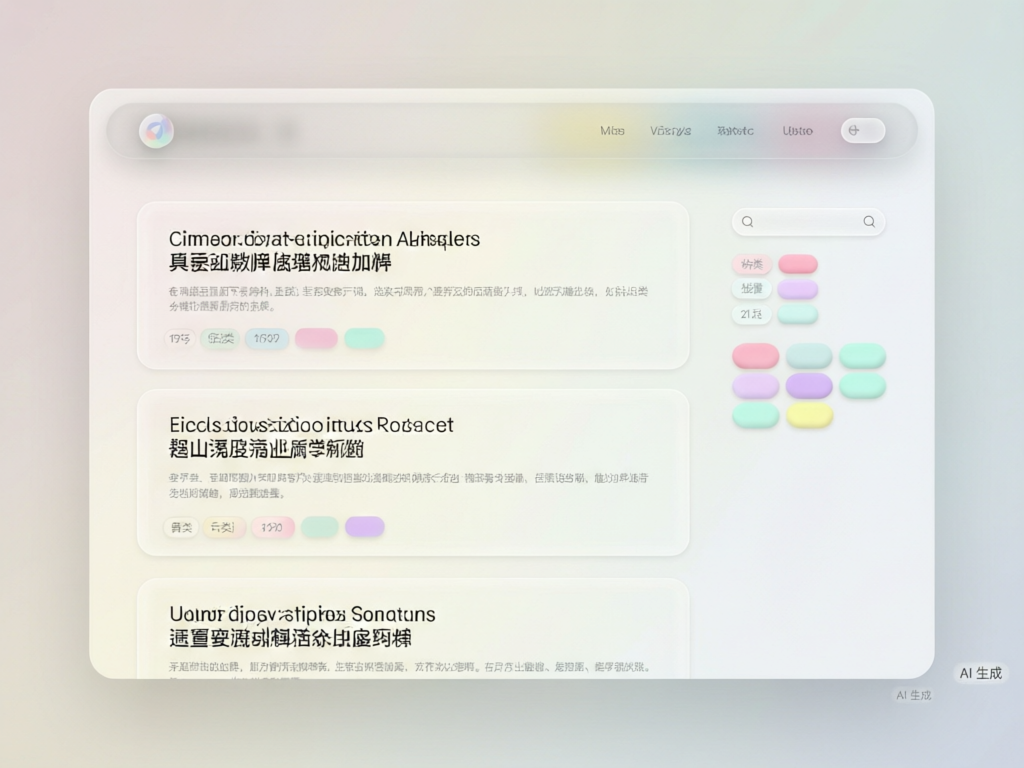
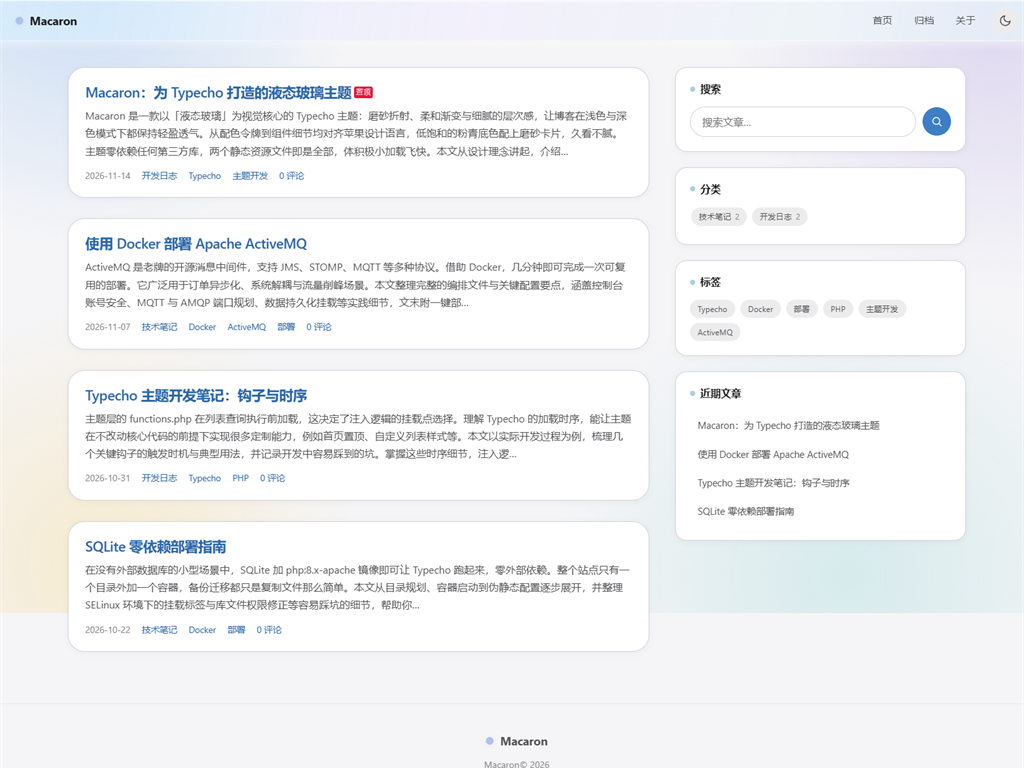
修复无法评论的问题

diff --git a/page.php b/page.php
@@ -74,7 +74,7 @@ $this->need('header.php');
             <?php endif; ?>
             </div>
 
-            <?php if ($this->options->allowCommentAtPage && $this->allow('comment')): ?>
+            <?php if (!$isCatalog && !$isLinks): ?>
                 <?php $this->need('comments.php'); ?>
             <?php endif; ?>
         </article>
